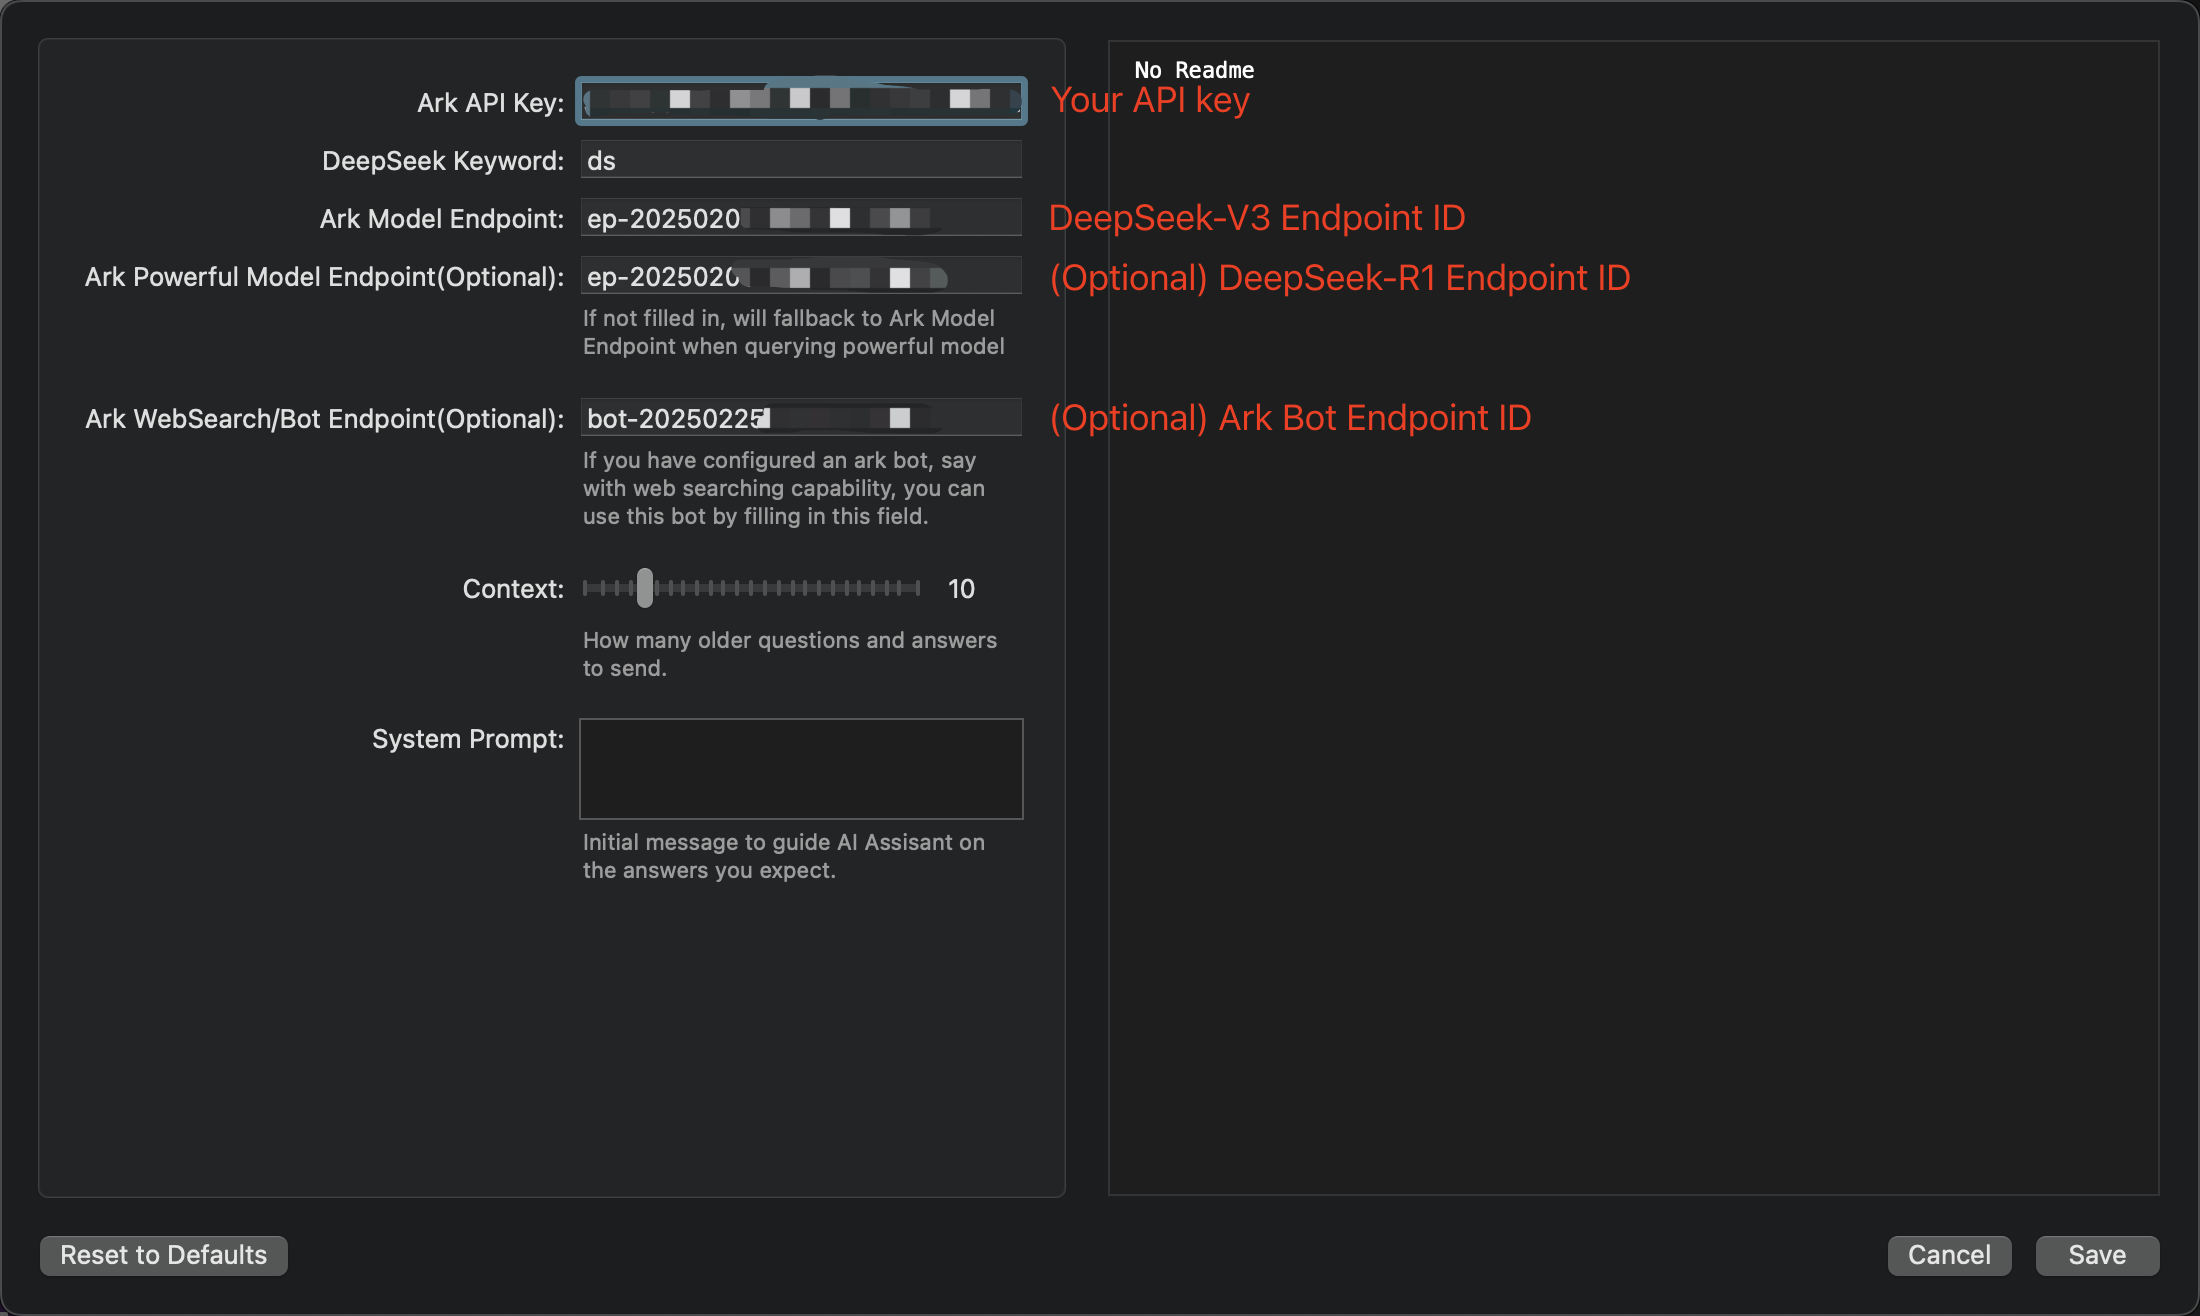
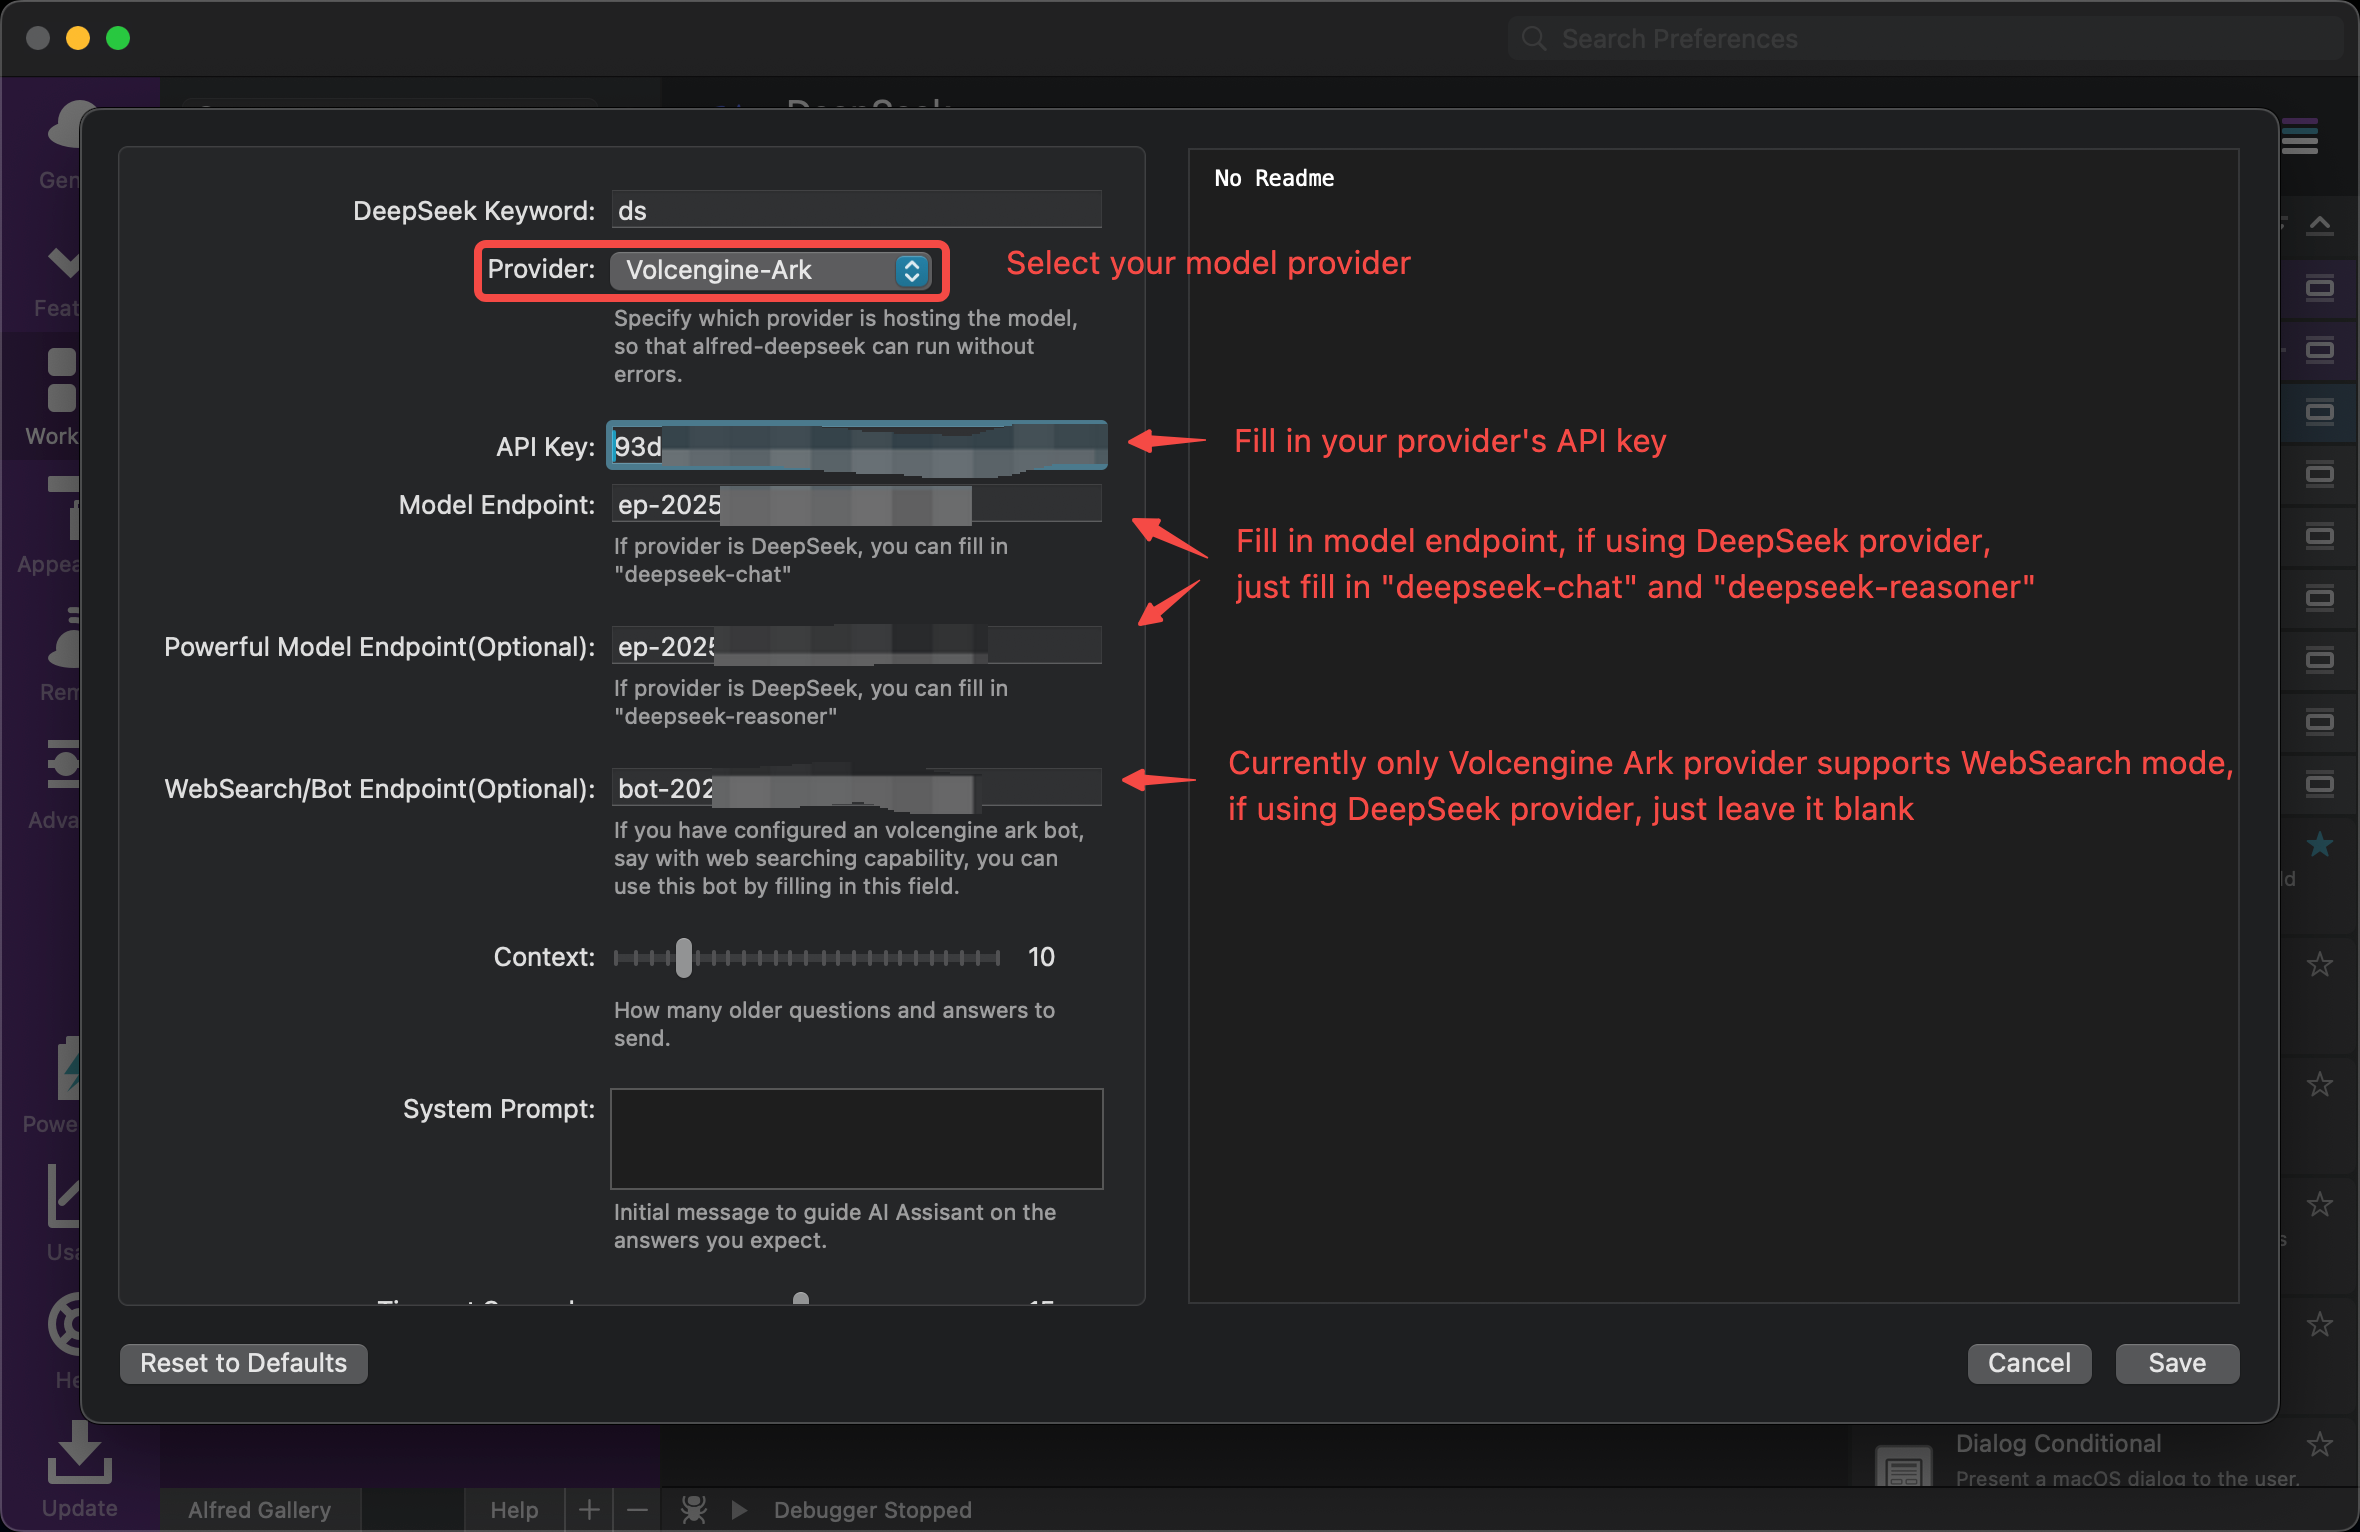
feat: support DeepSeek official's OpenAPI
feat: you can change your model's provider in the configuration page.
chore: add timeout configuration, because DeepSeek's offcial API responds slow relatively.

Closes #6

diff --git a/README.md b/README.md
@@ -11,7 +11,9 @@
 ![Demo Interrupted Answer](./about/demo_interrupted_content_preservation.gif)
 
 ### 📝 Prerequisites
-Currently DeepSeek official site's quota is limited, so we need to activate the model via volcengine.
+You can use alfred-deepseek with one of these providers: DeepSeek official or Volcengine Ark.
+Currently Volcengine Ark's DeepSeek API's responding speed is much faster.
+If you want to use DeepSeek via Volcengine Ark, please follow the steps below:
 1. Go to https://www.volcengine.com/ , create an account and login:
 2. Create a new api key, you can refer to this page https://www.volcengine.com/docs/82379/1399008;
 3. Create DeepSeek model endpoints via this page https://console.volcengine.com/ark, say DeepSeek-V3 and DeepSeek-R1:
@@ -72,7 +74,9 @@ __NOTE: this project is based on [openai-workflow](https://github.com/alfredapp/
 ![Demo Interrupted Answer](./about/demo_interrupted_content_preservation_chn.gif)
 
 ### 📝 前提条件
-目前 DeepSeek 官方网站 OpenAPI 没法充值了，因此我们通过火山引擎来使用 DeepSeek 的模型。
+alfred-deepseek 可以配置以下两个模型供应商的其中一个：DeepSeek 官方或火山方舟。
+当前火山方舟的 DeepSeek 响应速度快很多。
+如果你想通过火山方舟来使用 DeepSeek，则按以下步骤操作：
 1. 前往 https://www.volcengine.com/ ，创建一个账户并登录；
 2. 创建一个新的 API 密钥，可以参考页面 https://www.volcengine.com/docs/82379/1399008；
 3. 在 https://console.volcengine.com/ark 页面创建 DeepSeek 模型 Endpoints，例如 DeepSeek-V3 和 DeepSeek-R1：
@@ -89,7 +93,7 @@ __NOTE: this project is based on [openai-workflow](https://github.com/alfredapp/
 ### 🔧 配置
 配置 Workflow，然后就可以开始聊天了。🚀 
 ![Configure Workflow](./about/configure_workflow.png)
-![Configuration Page](./about/configuration_page.png)
+![Configuration Page](./about/configuration_page_chn.png)
 
 不要忘记添加 DeepSeek 到默认搜索！
 ![Fallback Search](./about/fallback_search.png)
@@ -111,7 +115,6 @@ __NOTE: this project is based on [openai-workflow](https://github.com/alfredapp/
 7. 复制 Bot 的 endpoint ID，并将其填写到配置页面中：
 ![Copy Bot Endpoint ID](./about/websearch_activation/copy_bot_endpoint_id_chn.png)
 ![Fill In Configuration](./about/websearch_activation/fill_in_configuration.png)
-
 
 ### 🔍 故障排除
 1. 如果无法正常执行，且在 debug 日志中看到 "Task not found ......" 错误，只需点击 "Automation Task" 图标并按照提示安装即可。
